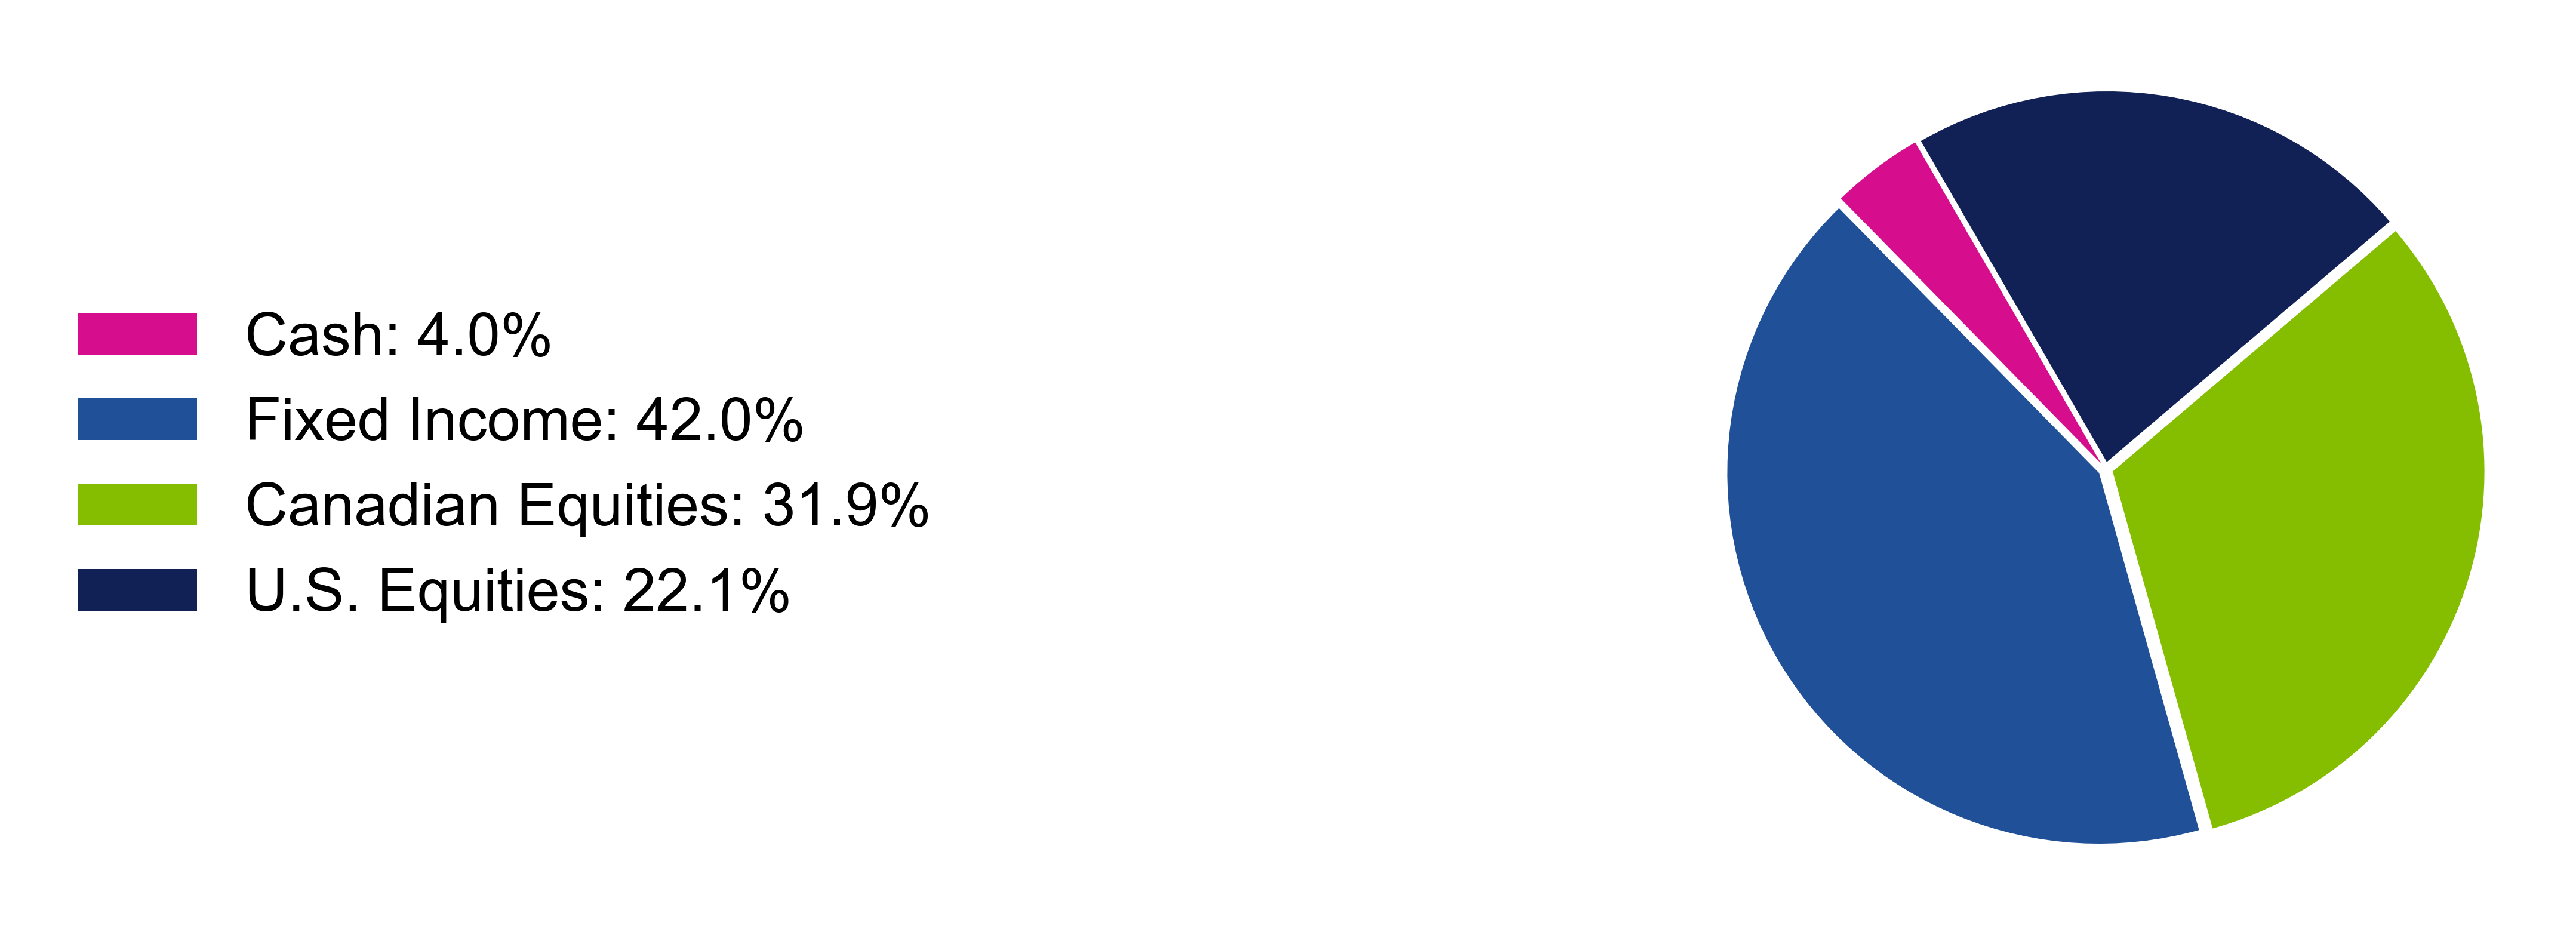
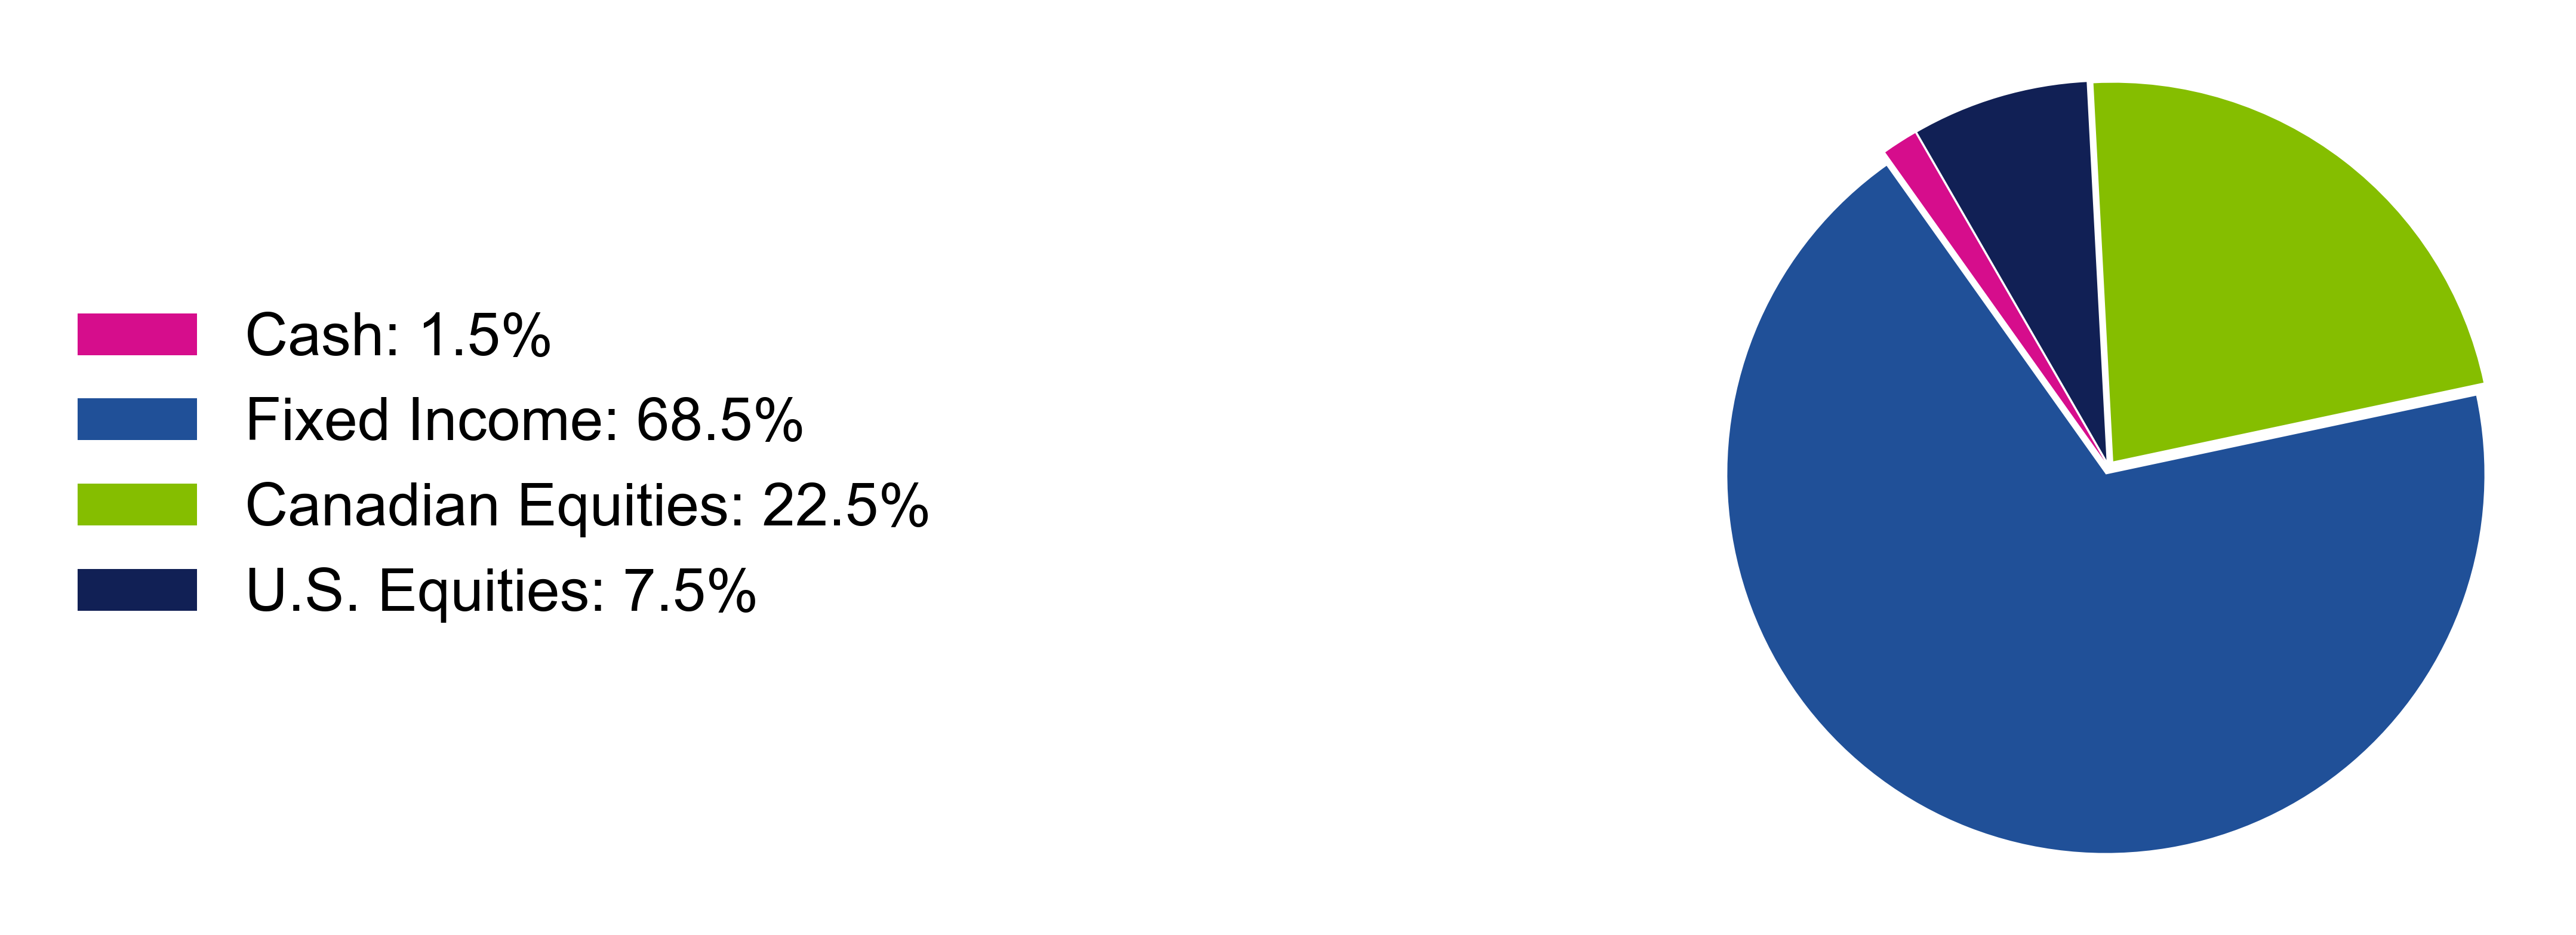
refactor: Simplify static file and font handling
- Remove complex font installation
- Use system sans-serif font
- Simplify static file paths
- Fix image loading timeouts

diff --git a/ips/views.py b/ips/views.py
@@ -1689,45 +1689,23 @@ def generate_account_summary(request):
 
 def generate_pie_chart(data, request):
     try:
-        # Force matplotlib to use Agg backend for this request
-        matplotlib.use('Agg', force=True)
+        # Create and save pie chart
+        plt.figure(figsize=(10, 8))
+        plt.pie(data['sizes'], labels=data['labels'], autopct='%1.1f%%')
+        plt.axis('equal')
         
-        # Clear any existing plots
-        plt.close('all')
+        # Save to staticfiles/images directory
+        pie_chart_path = os.path.join(settings.STATIC_ROOT, 'images', 'pie_chart.png')
+        plt.savefig(pie_chart_path, bbox_inches='tight', dpi=300)
+        plt.close()
         
-        # Create figure in a with block for automatic cleanup
-        with plt.figure(figsize=(10, 8)) as fig:
-            plt.pie(data['sizes'], labels=data['labels'], autopct='%1.1f%%')
-            plt.axis('equal')
-            
-            # Ensure media directory exists in both dev and prod
-            media_dir = os.path.join(settings.STATIC_ROOT, 'media')
-            os.makedirs(media_dir, exist_ok=True)
-            
-            # Use a unique filename with process ID for complete uniqueness
-            timestamp = datetime.now().strftime("%Y%m%d_%H%M%S_%f")
-            pid = os.getpid()
-            pie_chart_filename = f'pie_chart_{timestamp}_{pid}.png'
-            pie_chart_path = os.path.join(media_dir, pie_chart_filename)
-            
-            # Save with cleanup and optimized settings
-            plt.savefig(pie_chart_path, bbox_inches='tight', pad_inches=0.3, dpi=300, optimize=True)
-            
-            # Ensure file permissions are correct for production
-            os.chmod(pie_chart_path, 0o644)
-        
-        # Clean up old pie charts to prevent disk space issues
-        cleanup_old_pie_charts(media_dir)
-        
-        # Use static URL with proper handling for both dev and prod
-        pie_chart_url = settings.STATIC_URL + 'media/' + pie_chart_filename
-        return pie_chart_url
+        # Return static URL
+        return settings.STATIC_URL + 'images/pie_chart.png'
         
     except Exception as e:
         logger.error(f"Pie chart generation error: {str(e)}")
         raise
     finally:
-        # Ensure cleanup
         plt.close('all')
 
 def cleanup_old_pie_charts(media_dir, max_files=5):